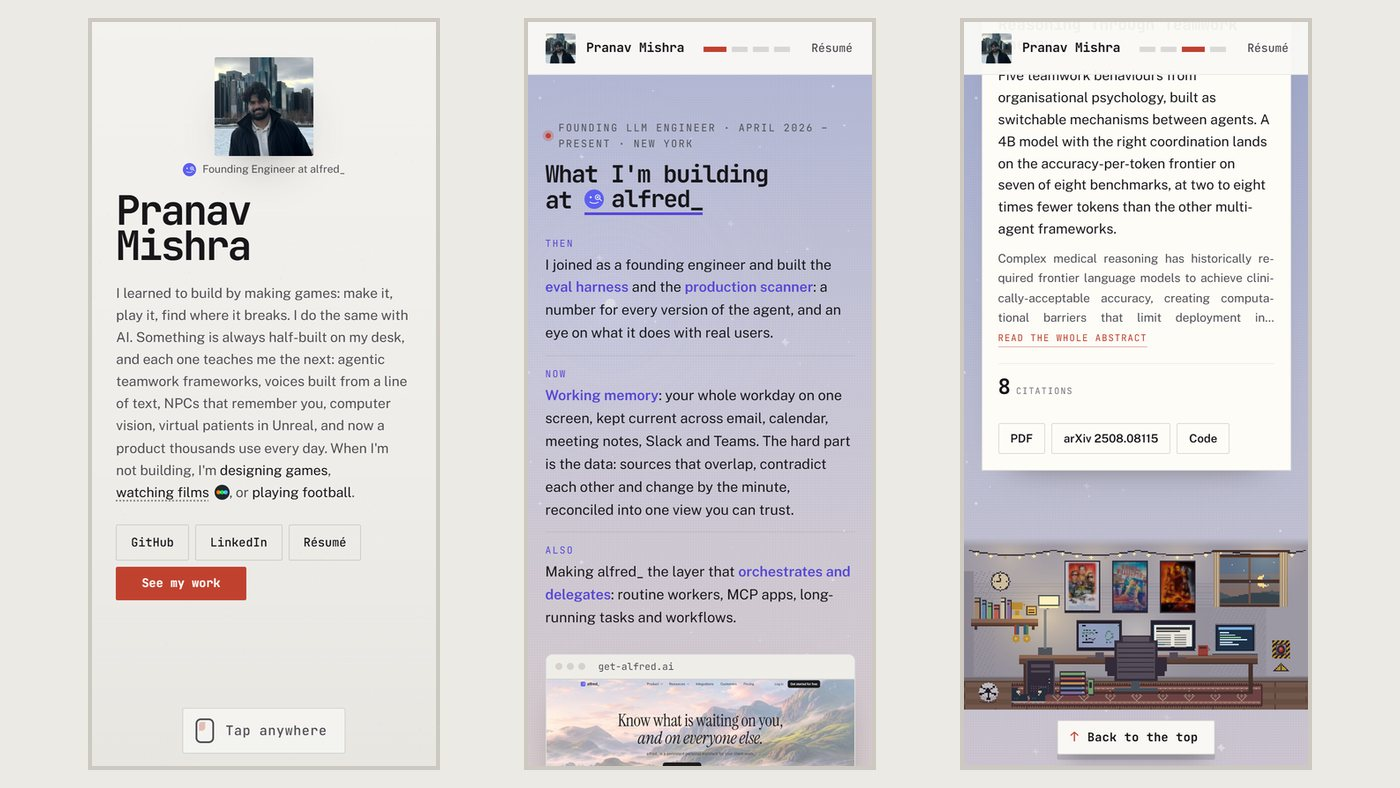
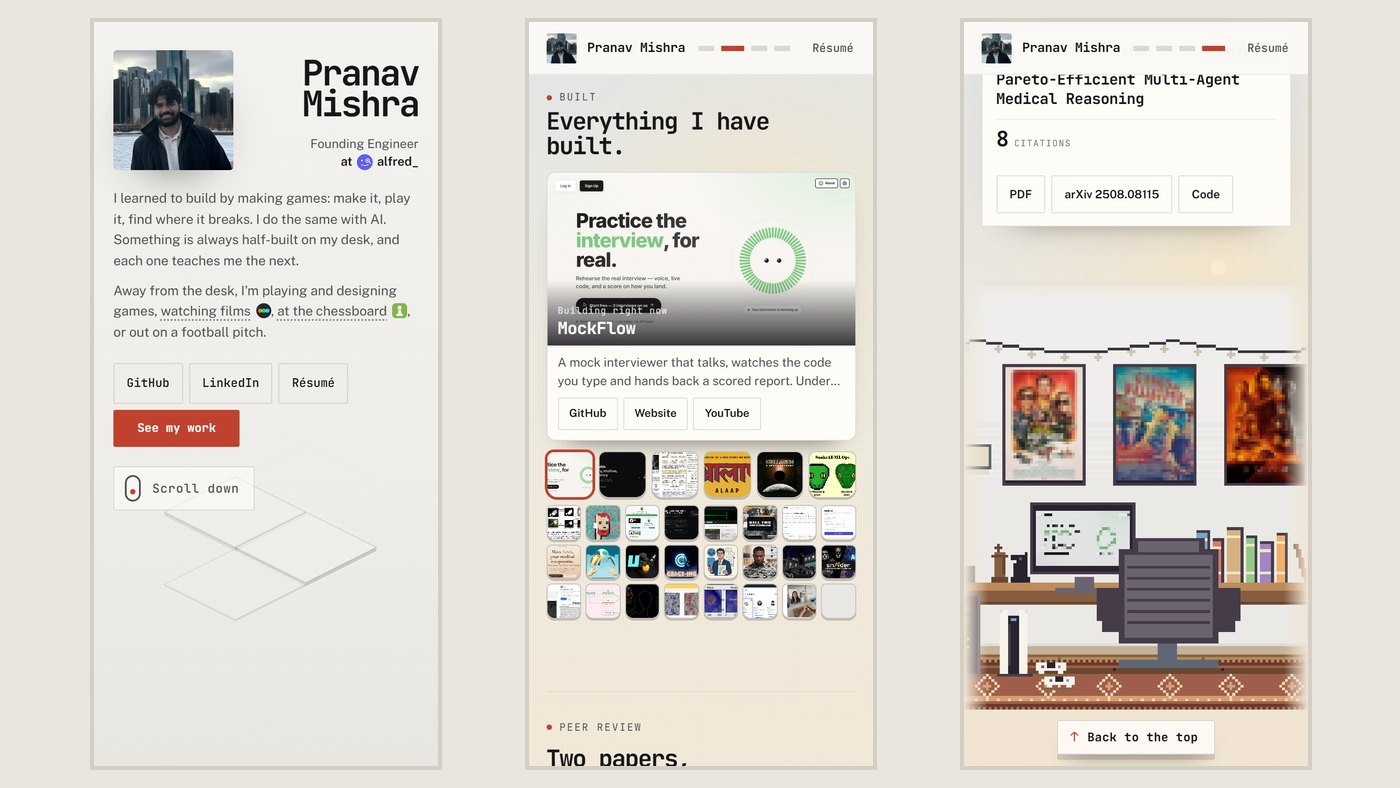
Smooth scrolling on a phone: the gate is native snap, nothing fights a finger, the sky, grain and room stay out of the scroll; README screens
- The page no longer pushes the scroll back while a finger is on it (it did for 0.7 s after the
  wall went, ten frames against the finger on every swipe through). On a touch screen the gate is
  the browser's own snap: let go early and it springs back, past half way it lands on the alfred_
  heading. With a mouse there is no snap (a wheel's notches would all snap back to the top); the
  page is put on the heading as the wall goes and held a moment.
- The sky and the grain are their own compositor layers, the sky's drift down the page recolours
  only once the scroll stops, and the room holds still while the page moves. On a 4x-slowed phone,
  frames past 33 ms while scrolling the page: 223 of 2629 live, 53 of 2665 now.
- scripts/scroll-jank.js: the phone scroll harness that found it, with --hide to bisect.
- README: the landing, the room by day and at night, the phone strip, and the words to match.

diff --git a/portfolio/scripts/scroll-jank.js b/portfolio/scripts/scroll-jank.js
@@ -1,0 +1,114 @@
+// Scroll jank on a phone: flings the page down and up, through the wall and back, many times on
+// a touch screen with the CPU slowed to a phone's, and reports the frames per stretch: the median
+// and the 95th percentile frame, how many frames ran past 33 ms, and which scripts held the
+// longest animation frames.
+//
+//   node scripts/scroll-jank.js [url] [cpu-slowdown]
+//
+// The page is moved by finger drags (CDP touch events), not synthesized flings, which do not
+// scroll it in a headless phone; so there is no momentum after a lift.
+//
+// e.g. node scripts/scroll-jank.js http://localhost:3000/ 4
+//
+// Needs playwright-core and a Chromium, the same way scripts/stress.js does (PLAYWRIGHT_CORE /
+// CHROME, or an installed playwright-core).
+
+const fs = require('fs');
+const path = require('path');
+
+const pw = require(process.env.PLAYWRIGHT_CORE || 'playwright-core');
+const URL = process.argv[2] || 'http://localhost:3000/';
+const SLOW = Number(process.argv[3] || 4);
+// --hide=<css selectors>: take parts of the page out, to find which one the frames go to
+const HIDE = (process.argv.find((a) => a.startsWith('--hide=')) || '').slice(7);
+const CYCLES = Number((process.argv.find((a) => a.startsWith('--cycles=')) || '--cycles=3').slice(9));
+
+function chrome() {
+  if (process.env.CHROME) return process.env.CHROME;
+  const root = path.join(process.env.LOCALAPPDATA || '', 'ms-playwright');
+  const b = fs.readdirSync(root).filter((d) => /^chromium-\d+$/.test(d)).sort().reverse()[0];
+  return path.join(root, b, 'chrome-win64', 'chrome.exe');
+}
+
+(async () => {
+  const br = await pw.chromium.launch({ executablePath: chrome(), headless: true });
+  const ctx = await br.newContext({ viewport: { width: 390, height: 844 }, deviceScaleFactor: 3, isMobile: true, hasTouch: true });
+  const p = await ctx.newPage();
+  const errs = [];
+  p.on('pageerror', (e) => errs.push(String(e)));
+  const cdp = await ctx.newCDPSession(p);
+  await p.addInitScript(() => {
+    window.__frames = [];
+    window.__ys = [];
+    let last = 0;
+    const tick = (t) => { if (last) { window.__frames.push(t - last); window.__ys.push(Math.round(window.scrollY)); } last = t; requestAnimationFrame(tick); };
+    requestAnimationFrame(tick);
+    window.__loaf = [];
+    try {
+      new PerformanceObserver((l) => l.getEntries().forEach((e) => window.__loaf.push({
+        d: Math.round(e.duration),
+        block: Math.round(e.blockingDuration || 0),
+        style: Math.round(e.styleAndLayoutStart ? e.startTime + e.duration - e.styleAndLayoutStart : 0),
+        scripts: (e.scripts || []).map((s) => `${s.invoker || s.name} ${Math.round(s.duration)}ms`).slice(0, 3),
+      }))).observe({ type: 'long-animation-frame', buffered: true });
+    } catch (err) { /* no LoAF in this build */ }
+  });
+  await p.goto(URL, { waitUntil: 'networkidle' });
+  if (HIDE) await p.addStyleTag({ content: `${HIDE} { display: none !important; }` });
+  await p.waitForTimeout(1500);
+  await cdp.send('Emulation.setCPUThrottlingRate', { rate: SLOW });
+
+  // a finger drag (synthesizeScrollGesture does not move this page in a headless phone): dy > 0
+  // scrolls down, in steps of about 24 px a frame
+  const fling = async (dy) => {
+    const n = Math.max(4, Math.round(Math.abs(dy) / 24));
+    const y0 = dy > 0 ? 780 : 80;
+    const step = -dy / n;
+    await cdp.send('Input.dispatchTouchEvent', { type: 'touchStart', touchPoints: [{ x: 195, y: y0 }] });
+    for (let i = 1; i <= n; i += 1) {
+      const y = y0 + step * i;
+      // the finger stays on the screen: past an edge it lifts and comes back for the rest
+      if (y < 20 || y > 824) {
+        await cdp.send('Input.dispatchTouchEvent', { type: 'touchEnd', touchPoints: [] });
+        return fling(dy > 0 ? dy - (y0 - 20) : dy + (824 - y0));
+      }
+      await cdp.send('Input.dispatchTouchEvent', { type: 'touchMove', touchPoints: [{ x: 195, y }] });
+      await p.waitForTimeout(16);
+    }
+    await cdp.send('Input.dispatchTouchEvent', { type: 'touchEnd', touchPoints: [] });
+    return undefined;
+  };
+  const take = () => p.evaluate(() => { const f = window.__frames; const l = window.__loaf; const y = window.__ys; window.__frames = []; window.__loaf = []; window.__ys = []; return { f, l, y }; });
+  const report = [];
+  const stretch = async (name, fn) => {
+    await take();
+    await fn();
+    await p.waitForTimeout(400);
+    const { f, l, y } = await take();
+    // the page jumping: a frame that moves against the way the stretch is going, or by a lot
+    const dys = y.slice(1).map((v, i) => v - y[i]);
+    const way = Math.sign(dys.reduce((a, b) => a + b, 0));
+    const back = dys.filter((d) => Math.sign(d) === -way && Math.abs(d) > 2);
+    const jumps = dys.filter((d) => Math.abs(d) > 160);
+    const s = [...f].sort((a, b) => a - b);
+    const q = (k) => (s.length ? Math.round(s[Math.min(s.length - 1, Math.floor(s.length * k))]) : 0);
+    report.push({ name, frames: f.length, p50: q(0.5), p95: q(0.95), max: Math.round(s[s.length - 1] || 0), over33: f.filter((x) => x > 33).length, back: back.length ? `${back.length} (${back.slice(0, 4).join(',')})` : 0, jumps: jumps.slice(0, 4).join(',') || 0, worst: l.sort((a, b) => b.d - a.d).slice(0, 2) });
+  };
+
+  for (let cycle = 1; cycle <= CYCLES; cycle += 1) {
+    await stretch(`c${cycle} down through the wall`, async () => { await fling(500); await p.waitForTimeout(1500); });
+    await stretch(`c${cycle} down the page`, async () => { for (let i = 0; i < 4; i += 1) await fling(1400); });
+    await stretch(`c${cycle} up the page`, async () => { for (let i = 0; i < 4; i += 1) await fling(-1400); });
+    await stretch(`c${cycle} up to the top (wall back)`, async () => { for (let i = 0; i < 4; i += 1) await fling(-2000); await p.waitForTimeout(1500); });
+  }
+  const page = report.filter((r) => /the page/.test(r.name));
+  const sum = (k) => page.reduce((a, r) => a + r[k], 0);
+  console.log(`scrolling the page: ${sum('over33')} of ${sum('frames')} frames past 33 ms${HIDE ? ` (hidden: ${HIDE})` : ''}`);
+  if (process.argv.includes('--brief')) { await br.close(); return; }
+  report.forEach((r) => {
+    console.log(`${r.name.padEnd(32)} frames ${String(r.frames).padStart(4)}  p50 ${String(r.p50).padStart(3)}ms  p95 ${String(r.p95).padStart(3)}ms  max ${String(r.max).padStart(4)}ms  >33ms ${r.over33}  backwards ${r.back}  jumps ${r.jumps}`);
+    r.worst.forEach((w) => console.log(`    long frame ${w.d}ms (blocking ${w.block}, style+layout ${w.style}): ${w.scripts.join(' | ')}`));
+  });
+  if (errs.length) console.log('errors:', errs);
+  await br.close();
+})();

diff --git a/portfolio/src/variants/v19/index.js b/portfolio/src/variants/v19/index.js
@@ -114,15 +114,18 @@ function Page() {
     if (!blown) window.scrollTo(0, 0);
   }, [blown]);
 
-  /* when the wall goes, however it went, the page comes to rest with the alfred_ heading in view
-     and is held there a moment: a phone's fling or a wheel's last ticks would carry it past, and
-     a wall blown at the very top would otherwise read as scrolled back up and come straight back */
+  /* where the page comes to rest when the wall goes: with the alfred_ heading in view. On a touch
+     screen the browser's own snap does it (v19.css) and nothing here pushes the scroll, so a
+     finger is never fought. With a mouse there is no finger: the page is put on the heading and
+     held there a moment, so a wheel's last notches do not carry it past. And a wall held away at
+     the very top leaves the page there, which would read as scrolled back up and bring the wall
+     straight back, so that moves to the work on any screen. */
   const settleRef = useRef(null);
-  const settle = useCallback(() => {
+  const settle = useCallback((hold) => {
     const work = document.getElementById('work');
     if (!work) return;
     const top = work.getBoundingClientRect().top + window.scrollY;
-    settleRef.current = { top, until: performance.now() + 700 };
+    if (hold) settleRef.current = { top, until: performance.now() + 600 };
     window.scrollTo({ top, behavior: 'instant' });
   }, []);
 
@@ -154,7 +157,8 @@ function Page() {
       }
       // the wall wakes the page itself once its tiles are clear (onBlast); with no wall, this does
       if (detRef.current) {
-        if (detRef.current.fuse(y / (window.innerHeight * FUSE))) settle();
+        const fired = detRef.current.fuse(y / (window.innerHeight * FUSE));
+        if (fired && !window.matchMedia('(pointer: coarse)').matches) settle(true);
       } else if (y > window.innerHeight * FUSE) setBlown(true);
     };
     const onScroll = () => {
@@ -235,9 +239,9 @@ function Page() {
   }, [blown]);
 
   const onBlast = useCallback(() => {
-    // a wall held, tapped or clicked away from the top of the page: bring the page to the work
-    const work = document.getElementById('work');
-    if (work && work.getBoundingClientRect().top > 2) settle();
+    // a wall held or tapped away at the very top of the page: bring the page to the work (one
+    // scrolled away is already on its way there)
+    if (window.scrollY <= 2) settle();
     setBlown(true);
     // the résumé, quietly, so the link is instant when it is wanted
     window.setTimeout(() => {

diff --git a/portfolio/src/variants/v19/hooks.js b/portfolio/src/variants/v19/hooks.js
@@ -117,22 +117,28 @@ export function useSky(ref, hour, deep = 0.2) {
       el.style.setProperty('--sun-c', c.sunC);
     };
 
-    // the drift is applied in 48 steps down the page, so a scroll repaints the sky a few times
-    // on the way down rather than at every frame — a change of colour is a full-screen paint
+    // the drift is applied in 48 steps down the page, and only once the scroll has stopped: a
+    // change of colour is a full-screen paint, and one in the middle of a scroll is a dropped
+    // frame on a phone
     let step = -1;
+    let idle = 0;
+    const read = () => {
+      const max = document.documentElement.scrollHeight - window.innerHeight;
+      const p = max > 0 ? window.scrollY / max : 0;
+      const s = Math.round(p * 48);
+      if (s !== step) {
+        step = s;
+        apply(s / 48);
+      }
+      ticking = false;
+    };
     const onScroll = () => {
-      if (ticking) return;
-      ticking = true;
-      window.requestAnimationFrame(() => {
-        const max = document.documentElement.scrollHeight - window.innerHeight;
-        const p = max > 0 ? window.scrollY / max : 0;
-        const s = Math.round(p * 48);
-        if (s !== step) {
-          step = s;
-          apply(s / 48);
-        }
-        ticking = false;
-      });
+      window.clearTimeout(idle);
+      idle = window.setTimeout(() => {
+        if (ticking) return;
+        ticking = true;
+        window.requestAnimationFrame(read);
+      }, 160);
     };
 
     apply(0);
@@ -143,6 +149,7 @@ export function useSky(ref, hour, deep = 0.2) {
     window.addEventListener('resize', onScroll);
     return () => {
       window.clearTimeout(settle);
+      window.clearTimeout(idle);
       window.removeEventListener('scroll', onScroll);
       window.removeEventListener('resize', onScroll);
     };

diff --git a/portfolio/src/variants/v19/room/Room.js b/portfolio/src/variants/v19/room/Room.js
@@ -401,6 +401,9 @@ export default function Room({ sectionRef, onTop, hour = 19, flipped = false, on
     let lastDraw = 0;
     let lastFrame = 0;
     let onScreen = true; // the room is the bottom of the page; behind the wall it is not drawn
+    let scrolledAt = 0;
+    const onScroll = () => { scrolledAt = performance.now(); };
+    window.addEventListener('scroll', onScroll, { passive: true });
 
     // the only way a frame is ever asked for: whatever was pending is dropped first, so a
     // hidden tab never comes back with a queue of them
@@ -580,6 +583,9 @@ export default function Room({ sectionRef, onTop, hour = 19, flipped = false, on
       if (!alive) return;
       if (!onScreen || document.hidden) return; // it is picked up again when it is seen
       lastFrame = now;
+      // while the page is moving the room holds still: a frame of it in the middle of a scroll is
+      // a dropped frame on a phone, and nobody is looking at it then
+      if (now - scrolledAt < 160) { schedule(); return; }
       if (now - lastDraw >= FRAME_MS) {
         const dt = lastDraw ? now - lastDraw : FRAME_MS;
         lastDraw = now;
@@ -627,6 +633,7 @@ export default function Room({ sectionRef, onTop, hour = 19, flipped = false, on
 
     return () => {
       alive = false;
+      window.removeEventListener('scroll', onScroll);
       window.cancelAnimationFrame(raf);
       window.clearInterval(watchdog);
       document.removeEventListener('visibilitychange', wake);

diff --git a/portfolio/src/variants/v19/v19.css b/portfolio/src/variants/v19/v19.css
@@ -110,6 +110,8 @@ html.v19-html { scrollbar-gutter: stable; }
 .v19-disco i:nth-child(3) { left: 50%; top: 100%; background: conic-gradient(from 320deg, transparent 0 8deg, rgba(255, 220, 60, .22) 8deg 12deg, transparent 12deg 60deg, rgba(60, 210, 255, .22) 60deg 64deg, transparent 64deg 360deg); animation-duration: 8s; }
 @keyframes v19-swing { from { transform: rotate(-22deg); } to { transform: rotate(22deg); } }
 
+/* the sky and the grain are their own layers: the page scrolls past them without repainting them */
+.v19-sky, .v19-grain { will-change: transform; }
 .v19-grain {
   position: fixed; inset: 0; z-index: 1; pointer-events: none;
   opacity: .5;
@@ -1322,3 +1324,12 @@ html.v19-html { scrollbar-gutter: stable; }
 /* the car drives off the screen, never off the page: nothing past the edge may widen it */
 .v19-past { overflow-x: clip; }
 .v19-wp-drive { -webkit-user-select: none; user-select: none; }
+
+/* on a touch screen the gate is the browser's own: two snap points, the top of the page and the
+   alfred_ heading. Let go early and the page springs back and the tiles settle; past half way it
+   lands on the heading and the wall goes. Native, so a finger or a fling is never fought. A wheel
+   moves in notches that would all snap back to the top, so a mouse gets no snap (see index.js). */
+@media (pointer: coarse) {
+  html.v19-html { scroll-snap-type: y proximity; }
+  .v19-lead, #work { scroll-snap-align: start; }
+}

diff --git a/README.md b/README.md
@@ -8,7 +8,7 @@ Live at [pranavmishra17.vercel.app](https://pranavmishra17.vercel.app/).
 
 ## What's on the page
 
-**The wall.** The site opens on a plaster wall with a short intro on it. There is no cursor: the tiles lift under your hand, and hold the mouse button and they tremble harder until the whole thing comes apart and the page is underneath (on a phone, one tap). See my work does the same from a button; point at it and it says Light the fuse. The words at the end of the intro each do something when you point at them, and watching films goes to Letterboxd. The face in the header puts the wall back.
+**The wall.** The site opens on a plaster wall with a short intro on it. Scrolling is the fuse, on any screen: the first part of the scroll lifts the tiles and the intro with them, and past two fifths of a screen the whole thing comes apart and the page is underneath, with the alfred\_ heading in view. Back at the very top the wall drops back in, tile by tile. With a mouse you can also hold the button over it until it goes. See my work does the same from a button; point at it and it says Light the fuse. The words at the end of the intro each do something when you point at them: watching films goes to Letterboxd, the chessboard to chess.com. The face in the header puts the wall back.
 
 ![alfred\_](./docs/screens/work.jpg)
 
@@ -24,7 +24,7 @@ Live at [pranavmishra17.vercel.app](https://pranavmishra17.vercel.app/).
 
 ![The room by day](./docs/screens/room-day.jpg)
 
-**The room.** A 288-pixel-wide room drawn into a palette-index buffer every frame and lit for the hour it actually is: the lamp and string lights come on as it gets dark, the window shows the sun or a crescent moon. Everything in it does something. The books, the games and the posters are real (the covers pixelate onto the shelf and clear when you point at them); the chair spins; the clock flips the day; the red button on the wall starts the disco.
+**The room.** A 288-pixel-wide room drawn into a palette-index buffer every frame and lit for the hour it actually is: the lamp and string lights come on as it gets dark, the window shows the sun or a crescent moon. Everything in it does something. The books, the games and the posters are real (the covers pixelate onto the wall and clear when you point at them, and the posters lead to Letterboxd); the king and knight on the desk open chess.com; the chair spins; the clock flips the day; the window lets more or less of it in. The party button is in a case on the wall under the desk: the first press breaks the glass, the second starts the disco.
 
 ![The room at night, disco on](./docs/screens/room-night-disco.jpg)
 
@@ -32,7 +32,7 @@ Live at [pranavmishra17.vercel.app](https://pranavmishra17.vercel.app/).
 
 ![Night](./docs/screens/night.jpg)
 
-**On a phone.** The same page, laid out for one hand: the wall goes with a tap, the header keeps the section dots and the résumé, a figure's note opens inside its own box, and the whole room fits across the screen, its notes rising from the bottom.
+**On a phone.** Laid out for a phone held upright rather than squeezed down from the desk: the wall goes with the scroll (let go early and it springs back), the intro is shorter, the projects are a screen over a keyboard of their pictures, the papers are a title and their links, the figures sit two by two, and the room is tall enough to aim at and swiped along sideways, its notes rising from the bottom.
 
 ![On a phone](./docs/screens/phone.jpg)
 
@@ -58,6 +58,7 @@ portfolio/
 ├── scripts/
 │   ├── stress.js                    # performance and stress harness (see below)
 │   ├── blast.js                     # frame timing across the wall's collapse only
+│   ├── scroll-jank.js               # a phone scrolled up and down, through the wall and back
 │   └── generate-resume-manifest.js
 └── src/
     ├── App.js                       # "/" and "/resume" are v19; "/classic" is the old site
@@ -86,6 +87,7 @@ npm start                         # http://localhost:3000
 |---|---|
 | `npm run build` | Production build. Bash sets `CI=false`; on Windows CMD use `set CI=false && npx react-scripts build`. |
 | `node scripts/stress.js <url> [dpr] [--quick]` | Loads the page in a real Chromium and reports fps, animation loops per frame, JS time per frame, long frames, heap, nodes and listeners across a set of scenes: idle on the wall, a stalled main thread, twenty seconds in a background tab, a resize storm, the blast, the room, three rebuild-and-blast cycles and a soak. Needs `playwright-core` and a Chromium. |
+| `node scripts/scroll-jank.js <url> [cpu-slowdown] [--hide=<selectors>]` | A 390 × 844 touch screen, the CPU slowed to a phone's, finger-dragged through the wall, down the page, up it and back to the top, three times. Per stretch: the median and 95th percentile frame, frames past 33 ms, frames that moved against the scroll, and the scripts behind the longest frames. `--hide` takes parts of the page out to find which one the frames go to. |
 | `node scripts/blast.js <url> [dpr]` | Holds the wall until it goes, then times every frame of the collapse at 1x and 4x CPU throttle: median, 95th percentile, worst frame and frames over 25 ms. The worst frame should stay near 17 ms. Point `PLAYWRIGHT_CORE` at a `playwright-core` directory. |
 | `npm run resume-manifest` | Scans `public/resumes/{ai,game}/` and writes `manifest.json`. Runs on `prestart` and `prebuild`. |
 | `npm test` | Jest via react-scripts. |
